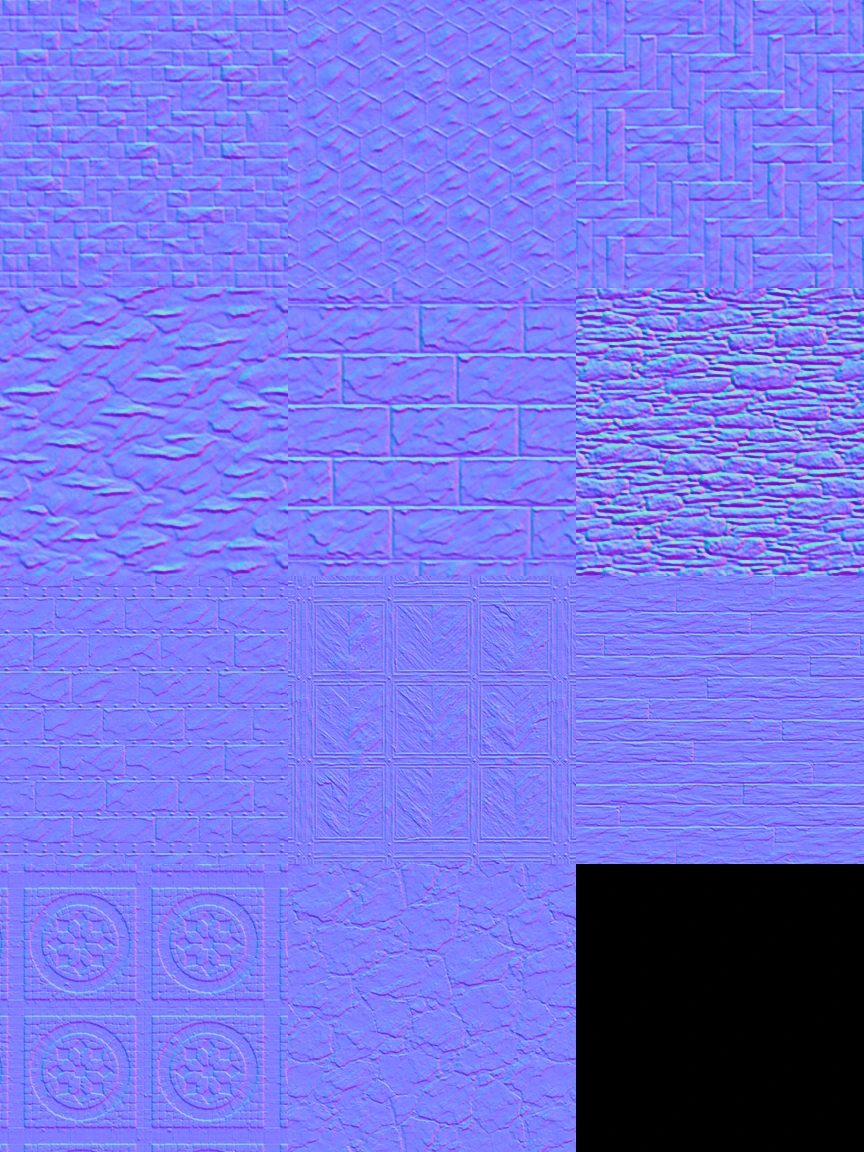
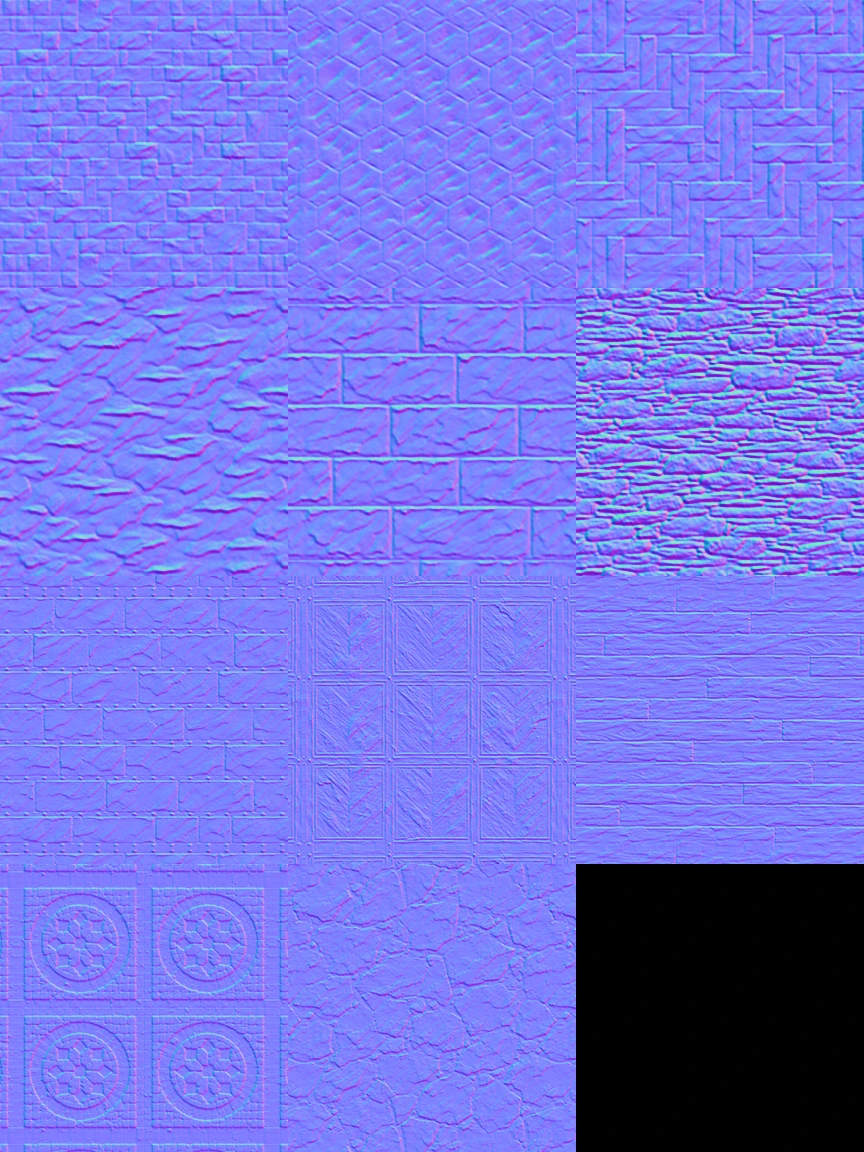
Normal maps: light-grouted floors sink their joints instead of raising them
Normal maps read from brightness (ours and, measured, the pack's own) raise
whatever is painted light. The flooded tiles' grout, the forge's and a Rifts
floor's glowing cracks and the gold inlay lines of two Ruins floors and a Vault
floor are painted light, so their relief is turned inside out.

Claude-Session: https://claude.ai/code/session_01RV2LkTXFCZhmAifUhFqJWb

Changed region(s): [[0.3125, 0.0, 0.6875, 0.25]]

diff --git a/tools/build-env-atlas.py b/tools/build-env-atlas.py
@@ -100,6 +100,19 @@ def tile(path, mode="RGBA"):
     return im.resize((TILE, TILE), Image.LANCZOS)
 
 
+# Textures whose low parts are painted light: grout, glowing cracks or inlay lines lighter than the stone. A normal map
+# read from brightness (the pack's own theme normals were made that way too, measured: they follow it closely) raises
+# those, so theirs is turned inside out: the joints sink.
+INVERT = {"theme-flooded", "theme-forge", "rifts/floor-1", "ruins/floor-0", "ruins/floor-1", "vault/floor-1"}
+
+
+def inverted(im):
+    """The same normal map with its relief turned inside out (x and y slopes negated)."""
+    a = np.asarray(im.convert("RGB")).copy()
+    a[..., :2] = 255 - a[..., :2]
+    return Image.fromarray(a, "RGB")
+
+
 def height_normal(im, k=7.0):
     """A normal map for a painting that came without one (the area floors and walls): its brightness taken as height
     (the dark joints and cracks low, the lit faces high), softened a little, wrapped at the edges like the tile. Same
@@ -151,6 +164,7 @@ def main():
         sheets[f"area-{a}"] = build(f"area-{a}.webp", colour, "RGBA", False)
         normals = [(k, height_normal(im), True) for k, im, _ in items[:6]]   # the floors and walls: from their painting
         normals += [("theme-" + th, tile(f"theme-normals/{THEME_FILE[th]}-normal.png", "RGB"), True) for th in THEME_AREA[a]]
+        normals = [(k, inverted(im) if (k if k.startswith("theme-") else f"{a}/{k}") in INVERT else im, w) for k, im, w in normals]
         sheets[f"area-{a}-n"] = build(f"area-{a}-n.webp", normals, "RGB", False, cols=3)
     fx = [(k, tile(p), m == "wrap") for k, (p, m) in EFFECTS.items()]
     fx.append(("leaf-clumps", leaf_clumps(), False))
